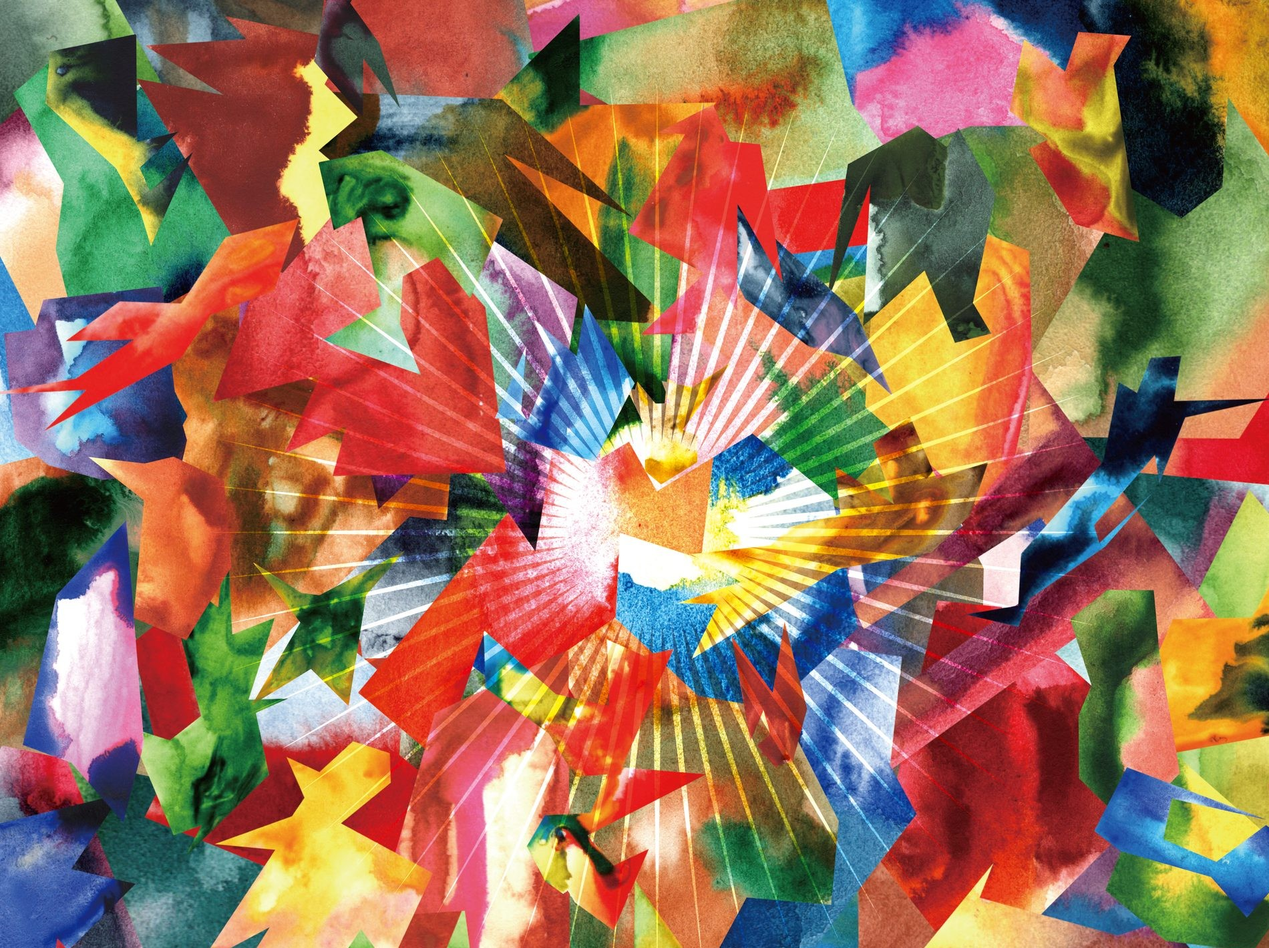
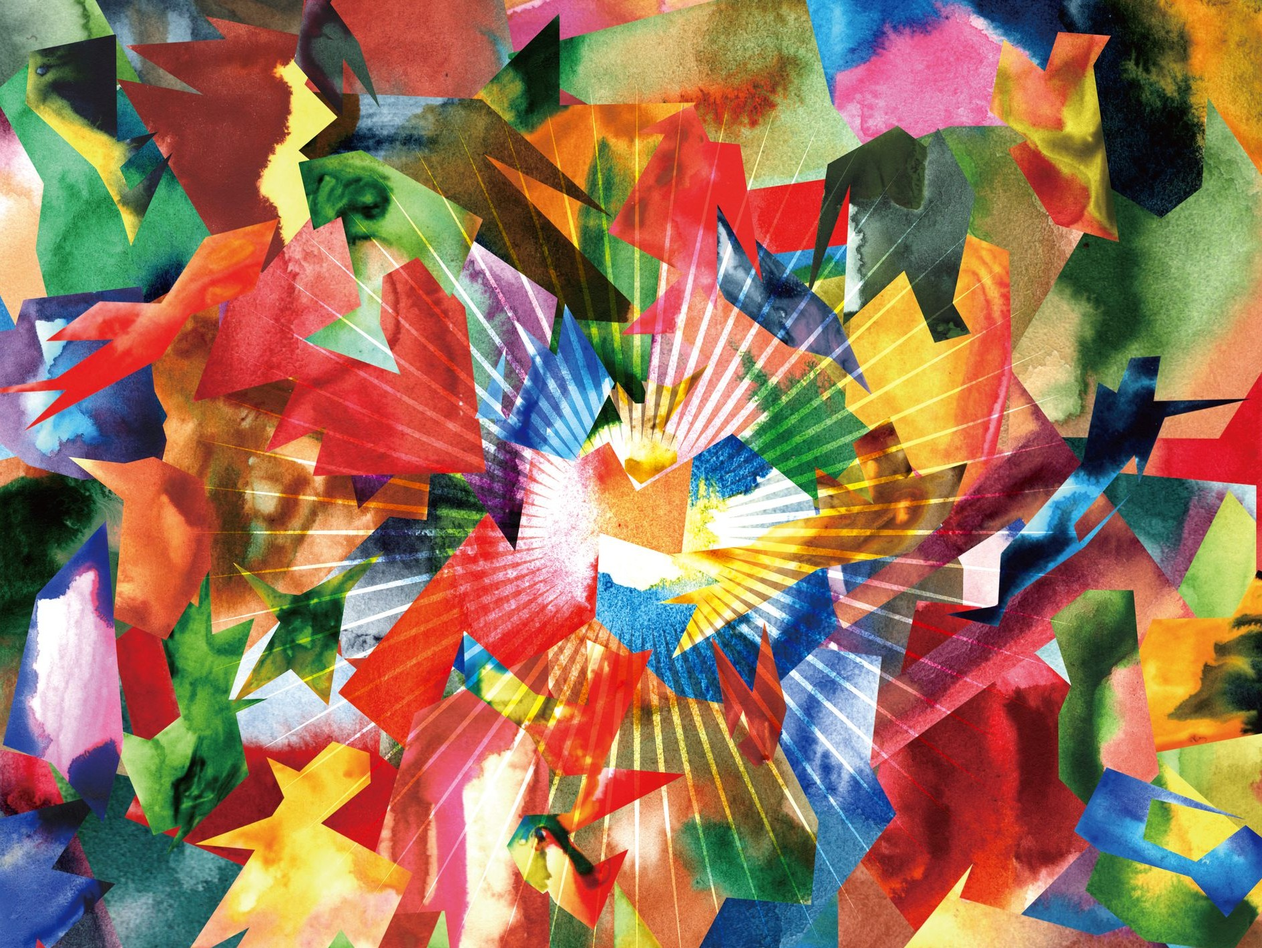
Recenter Contact burst horizontally, slow fragment fall further
Located the radiating burst's true convergence point in the source
artwork via Hough line-intersection analysis (rays cluster tightly
around x=975,y=795 in the original 1920x1920 image) rather than
guessing from the collage's bright patches, then re-cropped so that
point sits at the crop's horizontal center - the previous crop had
only 20px of slack in a 1900px-wide crop to correct a ~25px offset;
narrowing to 1890px gives enough room to land it exactly.

Fall duration widened again, 35-65s to 50-90s.

Claude-Session: https://claude.ai/code/session_01JKmiA2f5tqqAEivx58CpQZ

diff --git a/js/main.js b/js/main.js
@@ -142,7 +142,7 @@
     el.style.setProperty("--drift", (Math.random() * 60 + 20) + "px");
     el.style.setProperty("--rot-from", (Math.random() * 40 - 20) + "deg");
     el.style.setProperty("--rot-to", (Math.random() * 280 + 40) + "deg");
-    var duration = Math.random() * 30 + 35;
+    var duration = Math.random() * 40 + 50;
     var delay;
     if (!initial) {
       delay = Math.random() * RESPAWN_GAP_MAX_SECONDS;

diff --git a/index.html b/index.html
@@ -362,6 +362,6 @@
   </div>
 </footer>
 
-<script src="js/main.js?v=17"></script>
+<script src="js/main.js?v=18"></script>
 </body>
 </html>
